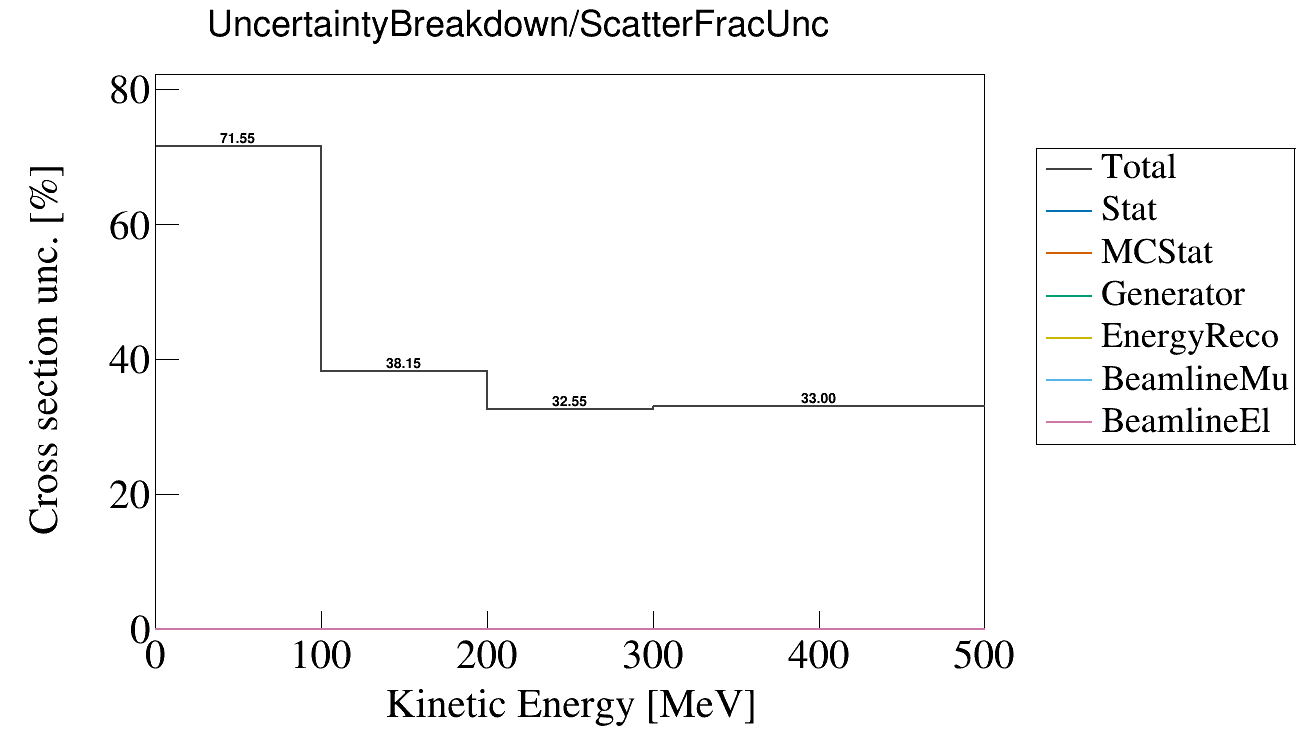
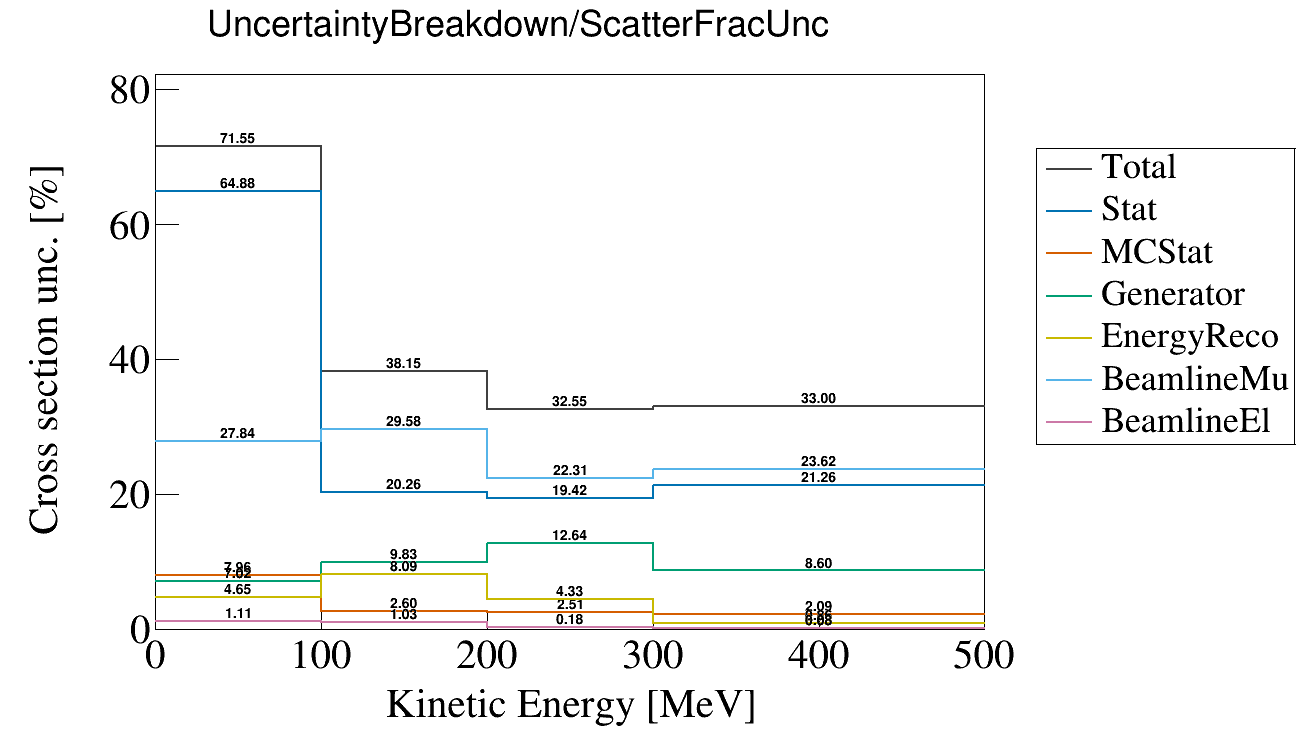
fix small bug

diff --git a/DataUnfold2.cc b/DataUnfold2.cc
@@ -274,7 +274,7 @@ void DataUnfold2() {
             if (signalBin == 0) {
                 hUncAbs_k->SetBinContent(energyBin + 1, sigma);
                 hFracAbs_k->SetBinContent(energyBin + 1, fracPct);
-            } else if (signalBin == 2) {
+            } else if (signalBin == 1) {
                 hUncScatter_k->SetBinContent(energyBin + 1, sigma);
                 hFracScatter_k->SetBinContent(energyBin + 1, fracPct);
             }
